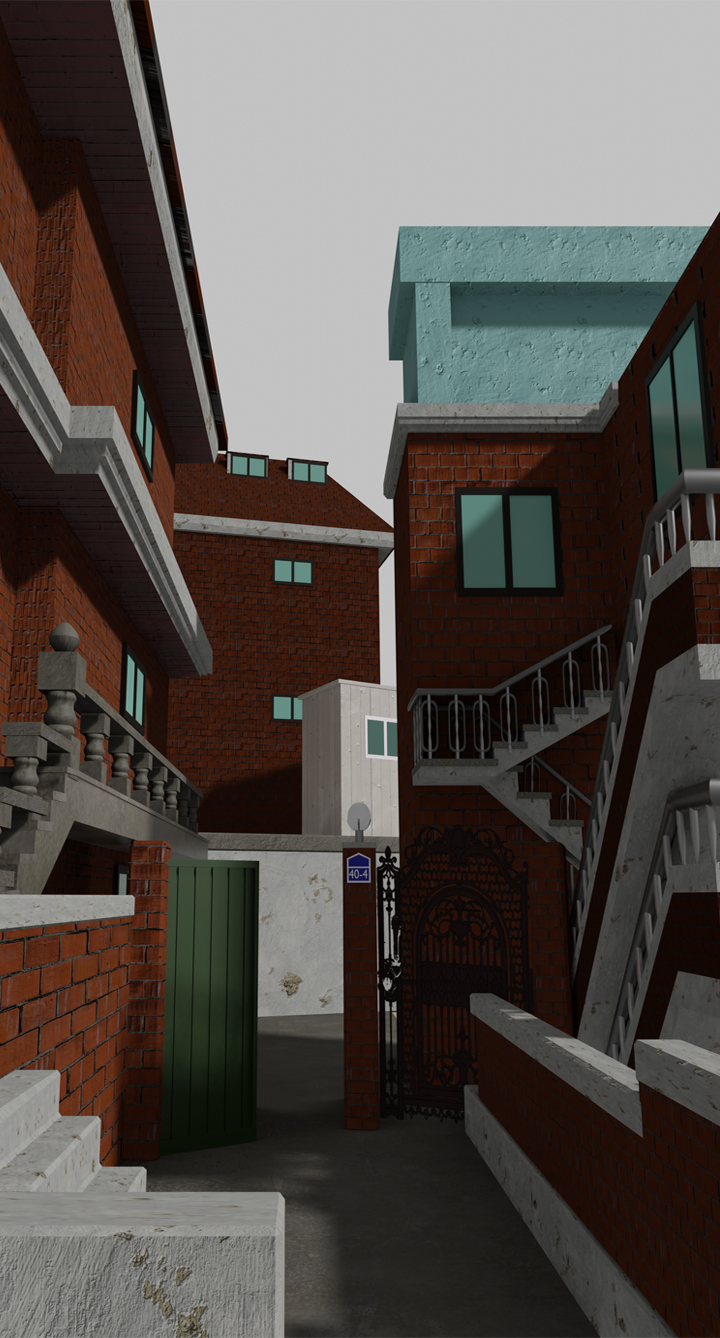
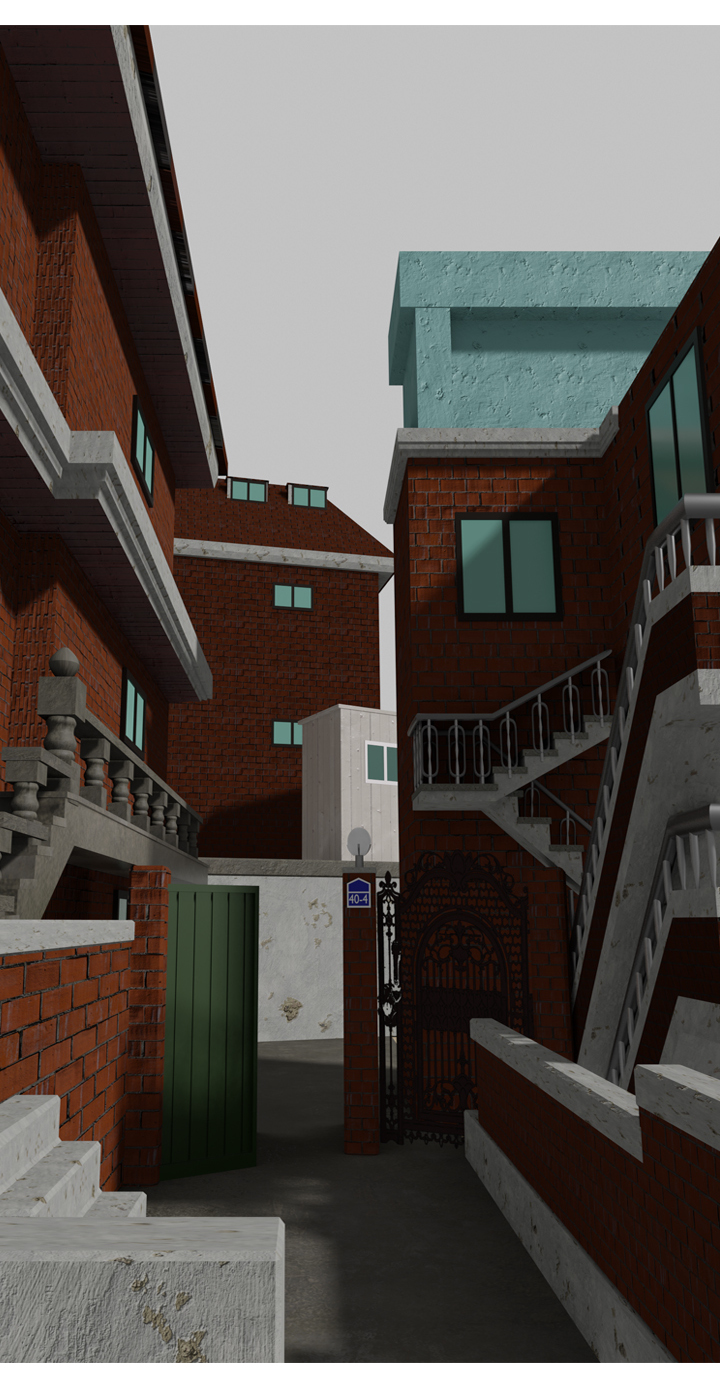
Implement full screen background image

diff --git a/static/css/app.css b/static/css/app.css
@@ -1,0 +1,128 @@
+.img-1 {
+  background-image: url("/img/1.jpg");
+}
+
+body {
+  background: black;
+}
+
+.jh-screen {
+  /* background: red; */
+  background-position: center;
+}
+
+@media (min-aspect-ratio: 3/4) {
+  /*
+  1. wider with letter box(3/4<x)
+  * 720 < width
+  * height = 960
+  * 720 / 960 = 0.75 = 3 / 4
+  */
+  .jh-screen {
+    /* background: red; */
+    /*
+    letter box left rigt
+    height is 100%
+    width = height * 3 / 4
+    */
+    height: 100vh;
+    width: calc(100vh * 3 / 4);
+    margin-top: 0;
+    margin-left: calc((100vw - (100vh * 3 / 4)) / 2);
+    background-size: calc(100vh * 3 / 4) calc((100vh * 3 / 4) * 1388 / 720);
+  }
+}
+
+@media (min-aspect-ratio: 720/1388) and (max-aspect-ratio: 3/4) {
+  /*
+  2. wider without letter box(720 / 1388 < x < 3/4)
+  * width = 720
+  * 960 < height < 1388
+*/
+  .jh-screen {
+    /* background: blue; */
+    /*
+    letter box none
+    height is 100%
+    width is 100%
+    */
+    height: 100vh;
+    width: 100vw;
+    margin-top: 0;
+    margin-left: 0;
+
+    background-size: 100vw calc(100vw * 1388 / 720);
+  }
+}
+
+@media (aspect-ratio: 720/1388) {
+  /*
+  3. fit (720 / 1388)
+  * width = 720
+  * height = 1388
+  * 720 / 1388
+*/
+  .jh-screen {
+    /* background: green; */
+    /*
+    letter box none
+    height is 100%
+    width is 100%
+    */
+    height: 100vh;
+    width: 100vw;
+    margin-top: 0;
+    margin-left: 0;
+
+    background-size: 100vw 100vh;
+  }
+}
+
+@media (min-aspect-ratio: 6/13) and (max-aspect-ratio: 720 / 1388) {
+  /*
+  4. taller without letter box (x < 720/1388)
+  * 640 < width < 720
+  * height = 1388
+*/
+  .jh-screen {
+    /* background: purple; */
+    /*
+    letter box none
+    height is 100%
+    width is 100%
+    */
+    height: 100vh;
+    width: 100vw;
+    margin-top: 0;
+    margin-left: 0;
+
+    background-size: calc(100vh * 720 / 1388) 100vh;
+  }
+}
+
+@media (max-aspect-ratio: 6/13) {
+  /*
+  5. taller with letter box (x < 6 / 13)
+  * width = 640
+  * 1388 < height
+  * 640 / 1388 = 0.461 = 6 / 13 
+*/
+  .jh-screen {
+    /* background: yellow; */
+    /*
+    letter box up and down
+    height is width * 13 / 6
+    width is 100%
+    */
+    height: calc(100vw * 13 / 6);
+    width: 100vw;
+    margin-top: calc((100vh - (100vw * 13 / 6)) / 2);
+    margin-left: 0;
+
+    /*
+      show all height
+      show minimum width (exceeds left and right)
+    */
+    background-size: calc((100vw * 13 / 6) * 720 / 1388) calc(100vw * 13 / 6);
+  }
+}

diff --git a/static/index.html b/static/index.html
@@ -11,8 +11,9 @@
     ></script>
     <link href="/css/reset.css" rel="stylesheet" />
     <link href="/css/output.css" rel="stylesheet" />
+    <link href="/css/app.css" rel="stylesheet" />
   </head>
   <body>
-    <div class="container img-1"></div>
+    <div class="jh-screen img-1"></div>
   </body>
 </html>

diff --git a/static/css/output.css b/static/css/output.css
@@ -501,3 +501,7 @@ Ensure the default browser behavior of the `hidden` attribute.
     max-width: 1536px;
   }
 }
+
+.h-screen {
+  height: 100vh;
+}
